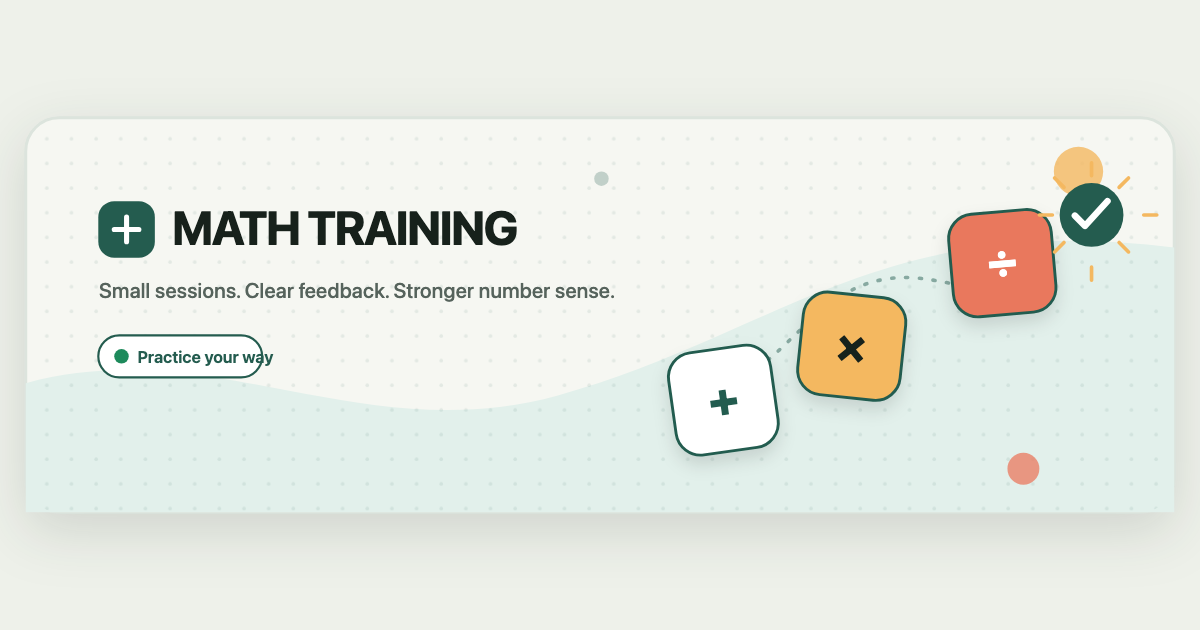
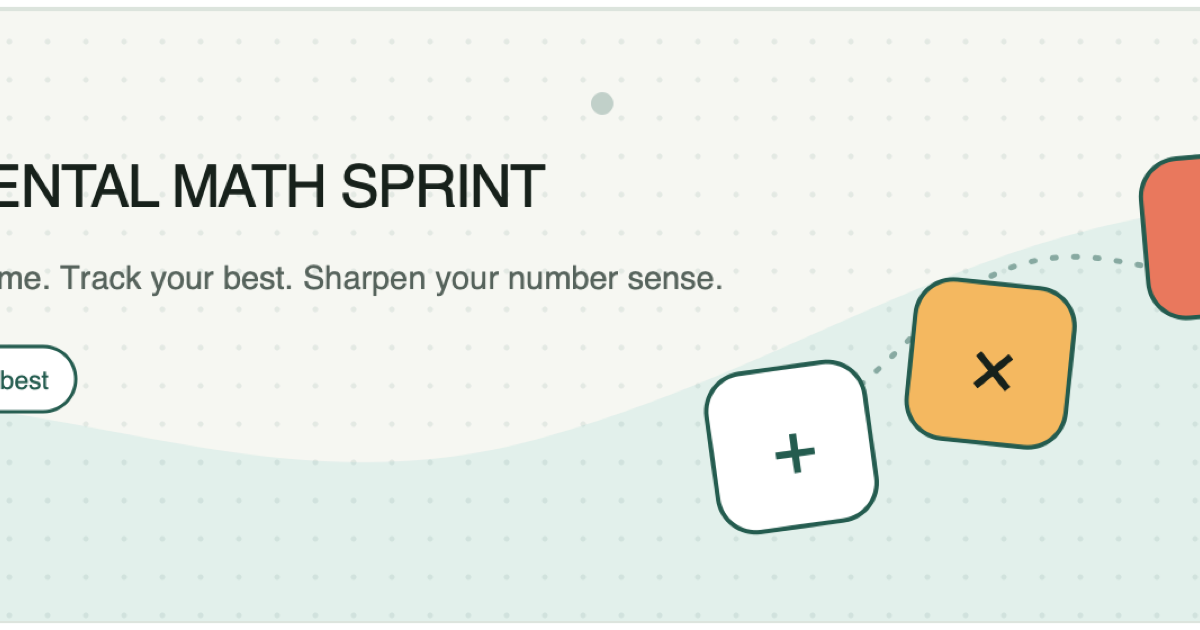
chore: rebrand as Mental Math Sprint
Update public branding, SEO, deployment paths, assets, package metadata, and release documentation for the repository rename.

OpenCode-Session: ses_0599d18caffeQKJofcsTFuyp5R

diff --git a/e2e/app.spec.ts b/e2e/app.spec.ts
@@ -1,7 +1,7 @@
 import AxeBuilder from '@axe-core/playwright'
 import { expect, test, type Page } from '@playwright/test'
 
-const appPath = '/ai-math-training/'
+const appPath = '/mental-math-sprint/'
 
 test.beforeEach(async ({ page }) => {
   await page.goto(appPath)
@@ -18,7 +18,7 @@ test.beforeEach(async ({ page }) => {
 })
 
 test('completes an addition session entirely from the keyboard', async ({ page }) => {
-  const setupHeading = page.getByRole('heading', { name: 'Sharpen your number sense.' })
+  const setupHeading = page.getByRole('heading', { name: 'Train fast. Think clearly. Beat your best.' })
   await expect(setupHeading).toBeVisible()
   await expect(setupHeading).not.toBeFocused()
   await expect(page.getByRole('link', { name: 'Skip to main content' })).toHaveAttribute('href', '#main-content')
@@ -27,7 +27,7 @@ test('completes an addition session entirely from the keyboard', async ({ page }
   await expect(supportLink).toHaveAttribute('href', 'https://buy.stripe.com/8x200i8bSgVe3Vl3g8bfO00')
   await expect(supportLink).toHaveAttribute('rel', /noopener noreferrer/)
   await setQuestionCount(page, 1)
-  await page.getByRole('button', { name: /Start practice/ }).click()
+  await page.getByRole('button', { name: /Start sprint/ }).click()
 
   const input = page.getByLabel('Your answer')
   await expect(input).toBeFocused()
@@ -50,7 +50,7 @@ test('completes an addition session entirely from the keyboard', async ({ page }
 
 test('restores a draft, counts retries, reveals, and resumes after save and exit', async ({ page }) => {
   await setQuestionCount(page, 2)
-  await page.getByRole('button', { name: /Start practice/ }).click()
+  await page.getByRole('button', { name: /Start sprint/ }).click()
 
   const input = page.getByLabel('Your answer')
   await input.fill('0')
@@ -95,7 +95,7 @@ test('builds mixed questions and supports the on-screen keypad', async ({ page }
   await setQuestionCount(page, 1)
 
   await expect(page.locator('.example-card')).toContainText('2–3 digits')
-  await page.getByRole('button', { name: /Start practice/ }).click()
+  await page.getByRole('button', { name: /Start sprint/ }).click()
 
   const operators = await page.locator('.expression__operator').allInnerTexts()
   expect(new Set(operators).size).toBeGreaterThanOrEqual(2)
@@ -113,7 +113,7 @@ test('builds mixed questions and supports the on-screen keypad', async ({ page }
 test('persists vertical practice and scores a skipped question', async ({ page }) => {
   await page.getByLabel('Vertical').check()
   await setQuestionCount(page, 1)
-  await page.getByRole('button', { name: /Start practice/ }).click()
+  await page.getByRole('button', { name: /Start sprint/ }).click()
 
   await expect(page.locator('.expression--vertical')).toBeVisible()
   await expect(page.getByText(/0% complete/)).toBeVisible()
@@ -154,7 +154,7 @@ test('has no detectable WCAG A or AA violations in core views', async ({ page })
   await expectAccessible(page, 'setup')
 
   await setQuestionCount(page, 1)
-  await page.getByRole('button', { name: /Start practice/ }).click()
+  await page.getByRole('button', { name: /Start sprint/ }).click()
   await expectAccessible(page, 'practice')
 
   const revealButton = page.getByRole('button', { name: 'Reveal answer' })
@@ -196,7 +196,7 @@ test('keeps mobile keypad focus and restart control deliberate', async ({ browse
   await mobile.evaluate(() => window.localStorage.clear())
   await mobile.reload()
   await setQuestionCount(mobile, 1)
-  await mobile.getByRole('button', { name: /Start practice/ }).click()
+  await mobile.getByRole('button', { name: /Start sprint/ }).click()
 
   const restart = mobile.getByRole('button', { name: 'Restart session' })
   const restartBox = await restart.boundingBox()
@@ -216,7 +216,7 @@ test('keeps mobile keypad focus and restart control deliberate', async ({ browse
 
 test('reviews corrected questions without expanding a perfect result', async ({ page }) => {
   await setQuestionCount(page, 1)
-  await page.getByRole('button', { name: /Start practice/ }).click()
+  await page.getByRole('button', { name: /Start sprint/ }).click()
   const input = page.getByLabel('Your answer')
   const expression = await page.locator('.expression__pieces').innerText()
   const operands = expression.match(/\d+/g)?.map(Number) ?? []
@@ -236,11 +236,11 @@ test('reviews corrected questions without expanding a perfect result', async ({ 
 test('publishes canonical social metadata and production-base assets', async ({ page }) => {
   await expect(page.locator('link[rel="canonical"]')).toHaveAttribute(
     'href',
-    'https://dmoliveira.github.io/ai-math-training/',
+    'https://dmoliveira.github.io/mental-math-sprint/',
   )
   await expect(page.locator('meta[property="og:image"]')).toHaveAttribute(
     'content',
-    'https://dmoliveira.github.io/ai-math-training/social-preview.png',
+    'https://dmoliveira.github.io/mental-math-sprint/social-preview.png',
   )
   await expect(page.locator('meta[name="twitter:card"]')).toHaveAttribute(
     'content',
@@ -248,7 +248,7 @@ test('publishes canonical social metadata and production-base assets', async ({ 
   )
   await expect(page.locator('script[type="module"]')).toHaveAttribute(
     'src',
-    /^\/ai-math-training\/assets\//,
+    /^\/mental-math-sprint\/assets\//,
   )
 
   const socialImage = await page.request.get(`${appPath}social-preview.png`)

diff --git a/src/app.ts b/src/app.ts
@@ -40,7 +40,7 @@ import {
   type StoreLoadResult,
 } from './storage/progress-store'
 
-const PUBLIC_APP_URL = 'https://dmoliveira.github.io/ai-math-training/'
+const PUBLIC_APP_URL = 'https://dmoliveira.github.io/mental-math-sprint/'
 
 type StorePort = Pick<ProgressStore, 'load' | 'save' | 'clear' | 'clearAll'>
 
@@ -443,7 +443,7 @@ export class MathTrainingApp {
       </aside>
       <footer class="site-footer">
         <p><span aria-hidden="true">🔒</span> Settings and completed history stay in this browser. No account or tracking.</p>
-        <a href="https://github.com/dmoliveira/ai-math-training" target="_blank" rel="noopener noreferrer">View source <span class="sr-only">(opens in a new tab)</span></a>
+        <a href="https://github.com/dmoliveira/mental-math-sprint" target="_blank" rel="noopener noreferrer">View source <span class="sr-only">(opens in a new tab)</span></a>
       </footer>
     `
   }
@@ -464,11 +464,11 @@ export class MathTrainingApp {
     return `
       <header class="site-header">
         <div class="site-header__inner">
-          <button class="brand" type="button" data-action="home" aria-label="Math Training home">
+          <button class="brand" type="button" data-action="home" aria-label="Mental Math Sprint home">
             <span class="brand__mark" aria-hidden="true">
               <span>+</span><span>×</span>
             </span>
-            <span class="brand__name">Math Training</span>
+            <span class="brand__name">Mental Math Sprint</span>
           </button>
           <nav class="creator-nav" aria-label="Creator links">
             <a href="https://dmoliveira.github.io/my-cv-public/cv/human/" target="_blank" rel="noopener noreferrer">CV<span class="sr-only"> (opens in a new tab)</span></a>
@@ -491,14 +491,14 @@ export class MathTrainingApp {
     return `
       <main id="main-content" class="page-shell setup-page">
         <section class="setup-hero" aria-labelledby="setup-heading">
-          <div class="eyebrow"><span aria-hidden="true">✦</span> Focused arithmetic practice</div>
-          <h1 id="setup-heading" tabindex="-1">Sharpen your number sense.</h1>
-          <p class="lede">Build a session that meets you where you are, then strengthen speed and confidence one answer at a time.</p>
-          <img class="hero-art" src="${import.meta.env.BASE_URL}math-training-banner.svg" alt="" width="1600" height="560" />
+          <div class="eyebrow"><span aria-hidden="true">✦</span> Your next personal best starts here</div>
+          <h1 id="setup-heading" tabindex="-1">Train fast. Think clearly. Beat your best.</h1>
+          <p class="lede">Configure your sprint, race the clock, and build speed one focused answer at a time.</p>
+          <img class="hero-art" src="${import.meta.env.BASE_URL}mental-math-sprint-banner.svg" alt="" width="1600" height="560" />
           <ul class="benefit-list" aria-label="Practice benefits">
-            <li><span aria-hidden="true">✓</span> Your level, your pace</li>
-            <li><span aria-hidden="true">✓</span> Instant, calm feedback</li>
-            <li><span aria-hidden="true">✓</span> Progress saved locally</li>
+            <li><span aria-hidden="true">✓</span> Your rules, your pace</li>
+            <li><span aria-hidden="true">✓</span> Fast, clear feedback</li>
+            <li><span aria-hidden="true">✓</span> Personal bests saved privately</li>
           </ul>
         </section>
 
@@ -614,7 +614,7 @@ export class MathTrainingApp {
             ${errors.length > 0 ? this.renderConfigErrors(errors) : ''}
 
             <button class="button button--primary button--large" type="submit" ${disabled(errors.length > 0)}>
-              Start practice <span aria-hidden="true">→</span>
+              Start sprint <span aria-hidden="true">→</span>
             </button>
             <p class="keyboard-note"><span aria-hidden="true">⌨</span> Built for keyboard and number-pad practice.</p>
           </form>
@@ -900,7 +900,7 @@ export class MathTrainingApp {
           ${this.renderShareCard(session)}
 
           <div class="completion-actions">
-            <button class="button button--primary button--large" type="button" data-action="practice-again">Practice again <span aria-hidden="true">↻</span></button>
+            <button class="button button--primary button--large" type="button" data-action="practice-again">Sprint again <span aria-hidden="true">↻</span></button>
             <button class="button button--secondary button--large" type="button" data-action="change-settings">Change settings</button>
           </div>
           <p class="completion-note"><span aria-hidden="true">🌱</span> A little consistent practice makes big numbers feel smaller.</p>

diff --git a/index.html b/index.html
@@ -5,36 +5,36 @@
     <meta name="viewport" content="width=device-width, initial-scale=1.0" />
     <meta
       name="description"
-      content="Build focused arithmetic practice sessions for addition, subtraction, multiplication, and division."
+      content="Race through configurable mental arithmetic sprints, track private personal bests, and improve addition, subtraction, multiplication, and division speed."
     />
     <meta name="theme-color" content="#f6f7f2" />
     <meta name="color-scheme" content="light" />
-    <link rel="canonical" href="https://dmoliveira.github.io/ai-math-training/" />
-    <meta property="og:title" content="Math Training" />
-    <meta property="og:site_name" content="Math Training" />
+    <link rel="canonical" href="https://dmoliveira.github.io/mental-math-sprint/" />
+    <meta property="og:title" content="Mental Math Sprint" />
+    <meta property="og:site_name" content="Mental Math Sprint" />
     <meta
       property="og:description"
-      content="A focused, friendly way to build everyday arithmetic fluency."
+      content="A fast, private mental-math trainer with personal bests, optional sound, and on-device performance history."
     />
     <meta property="og:type" content="website" />
-    <meta property="og:url" content="https://dmoliveira.github.io/ai-math-training/" />
-    <meta property="og:image" content="https://dmoliveira.github.io/ai-math-training/social-preview.png" />
+    <meta property="og:url" content="https://dmoliveira.github.io/mental-math-sprint/" />
+    <meta property="og:image" content="https://dmoliveira.github.io/mental-math-sprint/social-preview.png" />
     <meta property="og:image:type" content="image/png" />
     <meta property="og:image:width" content="1200" />
     <meta property="og:image:height" content="630" />
-    <meta property="og:image:alt" content="Math Training — small sessions, clear feedback, stronger number sense" />
+    <meta property="og:image:alt" content="Mental Math Sprint — train fast, track personal bests, sharpen number sense" />
     <meta name="twitter:card" content="summary_large_image" />
-    <meta name="twitter:title" content="Math Training" />
-    <meta name="twitter:description" content="A focused, friendly way to build everyday arithmetic fluency." />
-    <meta name="twitter:image" content="https://dmoliveira.github.io/ai-math-training/social-preview.png" />
-    <meta name="twitter:image:alt" content="Math Training — small sessions, clear feedback, stronger number sense" />
+    <meta name="twitter:title" content="Mental Math Sprint" />
+    <meta name="twitter:description" content="A fast, private mental-math trainer with personal bests, optional sound, and on-device performance history." />
+    <meta name="twitter:image" content="https://dmoliveira.github.io/mental-math-sprint/social-preview.png" />
+    <meta name="twitter:image:alt" content="Mental Math Sprint — train fast, track personal bests, sharpen number sense" />
     <link rel="icon" type="image/svg+xml" href="%BASE_URL%favicon.svg" />
-    <title>Math Training — Build arithmetic fluency</title>
+    <title>Mental Math Sprint — Fast, private arithmetic practice</title>
   </head>
   <body>
     <div id="app"></div>
     <noscript>
-      <div class="noscript-message">Math Training needs JavaScript to create and save practice sessions.</div>
+      <div class="noscript-message">Mental Math Sprint needs JavaScript to create and save practice sessions.</div>
     </noscript>
     <script type="module" src="/src/main.ts"></script>
   </body>

diff --git a/src/app.test.ts b/src/app.test.ts
@@ -370,7 +370,7 @@ describe('MathTrainingApp lifecycle', () => {
     const payload = share.share.mock.calls[0]![0]
     expect(payload.text).toContain('Mental Math Sprint')
     expect(payload.text).not.toContain('session-')
-    expect(payload.url).toBe('https://dmoliveira.github.io/ai-math-training/')
+    expect(payload.url).toBe('https://dmoliveira.github.io/mental-math-sprint/')
     await vi.waitFor(() => expect(document.querySelector('#app-announcer')?.textContent).toBe('Result shared.'))
 
     root.querySelector<HTMLButtonElement>('[data-action="copy-result"]')!.click()

diff --git a/playwright.config.ts b/playwright.config.ts
@@ -7,12 +7,12 @@ export default defineConfig({
   retries: process.env.CI ? 2 : 0,
   reporter: process.env.CI ? 'github' : 'list',
   use: {
-    baseURL: 'http://127.0.0.1:4173/ai-math-training/',
+    baseURL: 'http://127.0.0.1:4173/mental-math-sprint/',
     trace: 'on-first-retry',
   },
   webServer: {
     command: 'npm run build && exec ./node_modules/.bin/vite preview --host 127.0.0.1 --port 4173',
-    url: 'http://127.0.0.1:4173/ai-math-training/',
+    url: 'http://127.0.0.1:4173/mental-math-sprint/',
     reuseExistingServer: false,
   },
   projects: [

diff --git a/src/main.ts b/src/main.ts
@@ -3,7 +3,7 @@ import { MathTrainingApp } from './app'
 
 const root = document.querySelector<HTMLElement>('#app')
 
-if (!root) throw new Error('Math Training could not find its app container.')
+if (!root) throw new Error('Mental Math Sprint could not find its app container.')
 
 const app = new MathTrainingApp(root)
 app.start()

diff --git a/vite.config.ts b/vite.config.ts
@@ -1,5 +1,5 @@
 import { defineConfig } from 'vite'
 
 export default defineConfig({
-  base: '/ai-math-training/',
+  base: '/mental-math-sprint/',
 })

diff --git a/README.md b/README.md
@@ -1,19 +1,19 @@
 <p align="center">
-  <img src="./public/math-training-banner.svg" alt="Math Training — small sessions, clear feedback, stronger number sense" width="100%" />
+  <img src="./public/mental-math-sprint-banner.svg" alt="Mental Math Sprint — small sessions, clear feedback, stronger number sense" width="100%" />
 </p>
 
 <p align="center">
-  <a href="https://dmoliveira.github.io/ai-math-training/"><img alt="Live on GitHub Pages" src="https://img.shields.io/badge/live-GitHub%20Pages-245C4F?style=for-the-badge&logo=github" /></a>
-  <a href="https://github.com/dmoliveira/ai-math-training/actions/workflows/ci.yml"><img alt="Continuous integration" src="https://img.shields.io/github/actions/workflow/status/dmoliveira/ai-math-training/ci.yml?branch=main&style=for-the-badge&label=checks" /></a>
-  <a href="https://github.com/dmoliveira/ai-math-training/actions/workflows/pages.yml"><img alt="GitHub Pages deployment" src="https://img.shields.io/github/actions/workflow/status/dmoliveira/ai-math-training/pages.yml?branch=main&style=for-the-badge&label=pages" /></a>
+  <a href="https://dmoliveira.github.io/mental-math-sprint/"><img alt="Live on GitHub Pages" src="https://img.shields.io/badge/live-GitHub%20Pages-245C4F?style=for-the-badge&logo=github" /></a>
+  <a href="https://github.com/dmoliveira/mental-math-sprint/actions/workflows/ci.yml"><img alt="Continuous integration" src="https://img.shields.io/github/actions/workflow/status/dmoliveira/mental-math-sprint/ci.yml?branch=main&style=for-the-badge&label=checks" /></a>
+  <a href="https://github.com/dmoliveira/mental-math-sprint/actions/workflows/pages.yml"><img alt="GitHub Pages deployment" src="https://img.shields.io/github/actions/workflow/status/dmoliveira/mental-math-sprint/pages.yml?branch=main&style=for-the-badge&label=pages" /></a>
   <a href="./LICENSE"><img alt="MIT license" src="https://img.shields.io/badge/license-MIT-F4B860?style=for-the-badge" /></a>
 </p>
 
-# Math Training 🧠➕
+# Mental Math Sprint 🧠➕
 
-A focused, friendly browser app for building everyday arithmetic fluency. Choose your number size, operations, expression length, and session size—then practise with fast keyboard input and calm feedback.
+A fast, private browser game for sharpening mental arithmetic. Configure a sprint, race your own scored time, climb your personal top five, and study seven-day trends—all without an account or tracker.
 
-**[Start practising →](https://dmoliveira.github.io/ai-math-training/)**
+**[Start sprinting →](https://dmoliveira.github.io/mental-math-sprint/)**
 
 ## Why it is useful ✨
 
@@ -65,8 +65,8 @@ Your active session is restored after a refresh. **Save & exit** pauses the time
 - npm (included with Node.js)
 
 ```bash
-git clone https://github.com/dmoliveira/ai-math-training.git
-cd ai-math-training
+git clone https://github.com/dmoliveira/mental-math-sprint.git
+cd mental-math-sprint
 npm ci
 npm run dev
 ```
@@ -107,9 +107,9 @@ The app is a dependency-light Vite + TypeScript static site. It has no backend a
 
 ## Deployment 🌍
 
-Every merge to `main` runs the complete validation suite and deploys `dist/` through the official GitHub Pages Actions flow. The Vite base is fixed to `/ai-math-training/` for this project site.
+Every merge to `main` runs the complete validation suite and deploys `dist/` through the official GitHub Pages Actions flow. The Vite base is fixed to `/mental-math-sprint/` for this project site.
 
-- Live app: <https://dmoliveira.github.io/ai-math-training/>
+- Live app: <https://dmoliveira.github.io/mental-math-sprint/>
 - Deployment workflow: [`.github/workflows/pages.yml`](./.github/workflows/pages.yml)
 
 ## Contributing 🤝
@@ -121,7 +121,7 @@ npm run check
 npm run test:e2e
 ```
 
-Use [GitHub Issues](https://github.com/dmoliveira/ai-math-training/issues) for bugs and future practice ideas so the core experience stays simple.
+Use [GitHub Issues](https://github.com/dmoliveira/mental-math-sprint/issues) for bugs and future practice ideas so the core experience stays simple.
 
 ## License 📄
 
